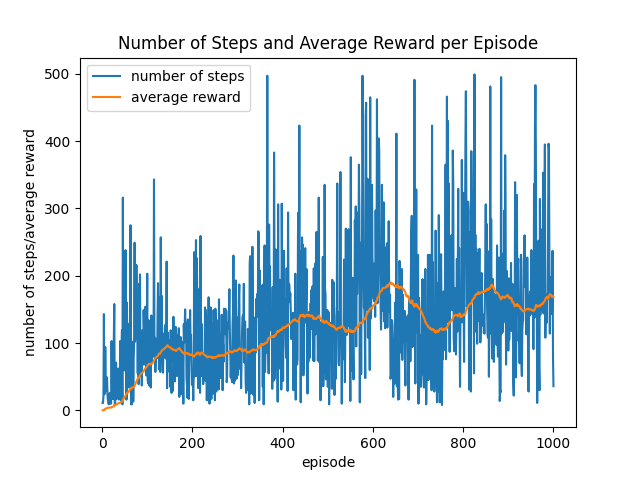
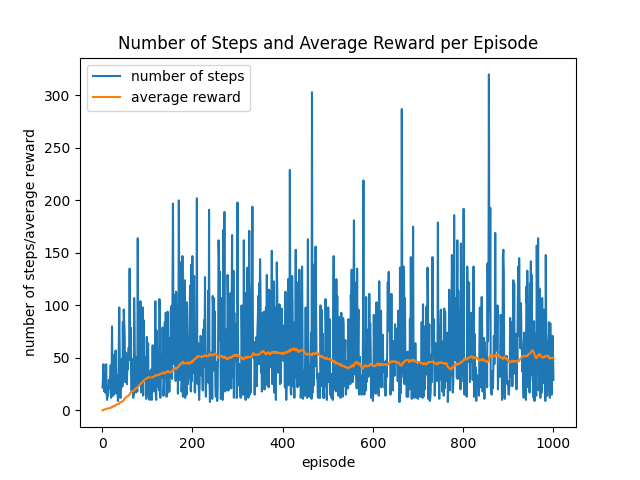
Update epsilon to match Airi

diff --git a/checkpoint/sarsa-test.py b/checkpoint/sarsa-test.py
@@ -11,7 +11,7 @@ env = gym.make('CartPole-v1')
 # Hyperparameters, can maybe do sensitivity analysis?
 gamma = 0.9
 alpha = 0.5
-epsilon = 0.1
+epsilon = 0.5
 
 # Training values
 max_number_of_steps = 500  # maximum length of each episode
